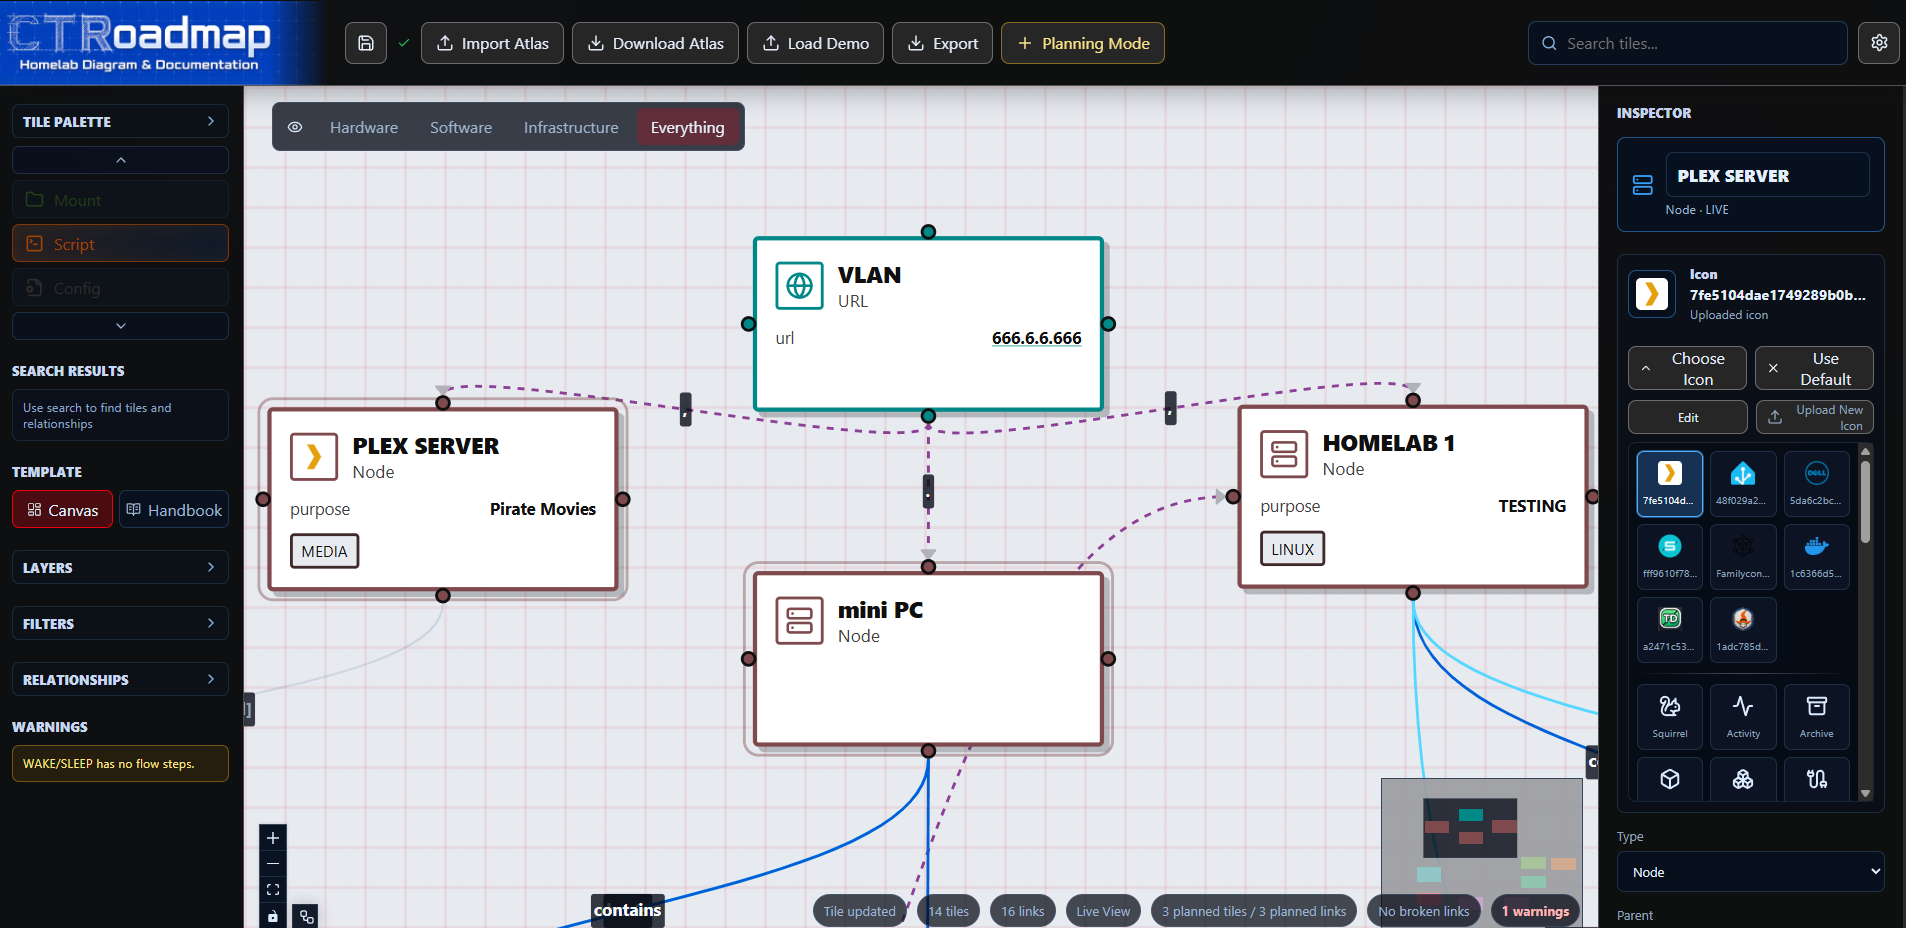
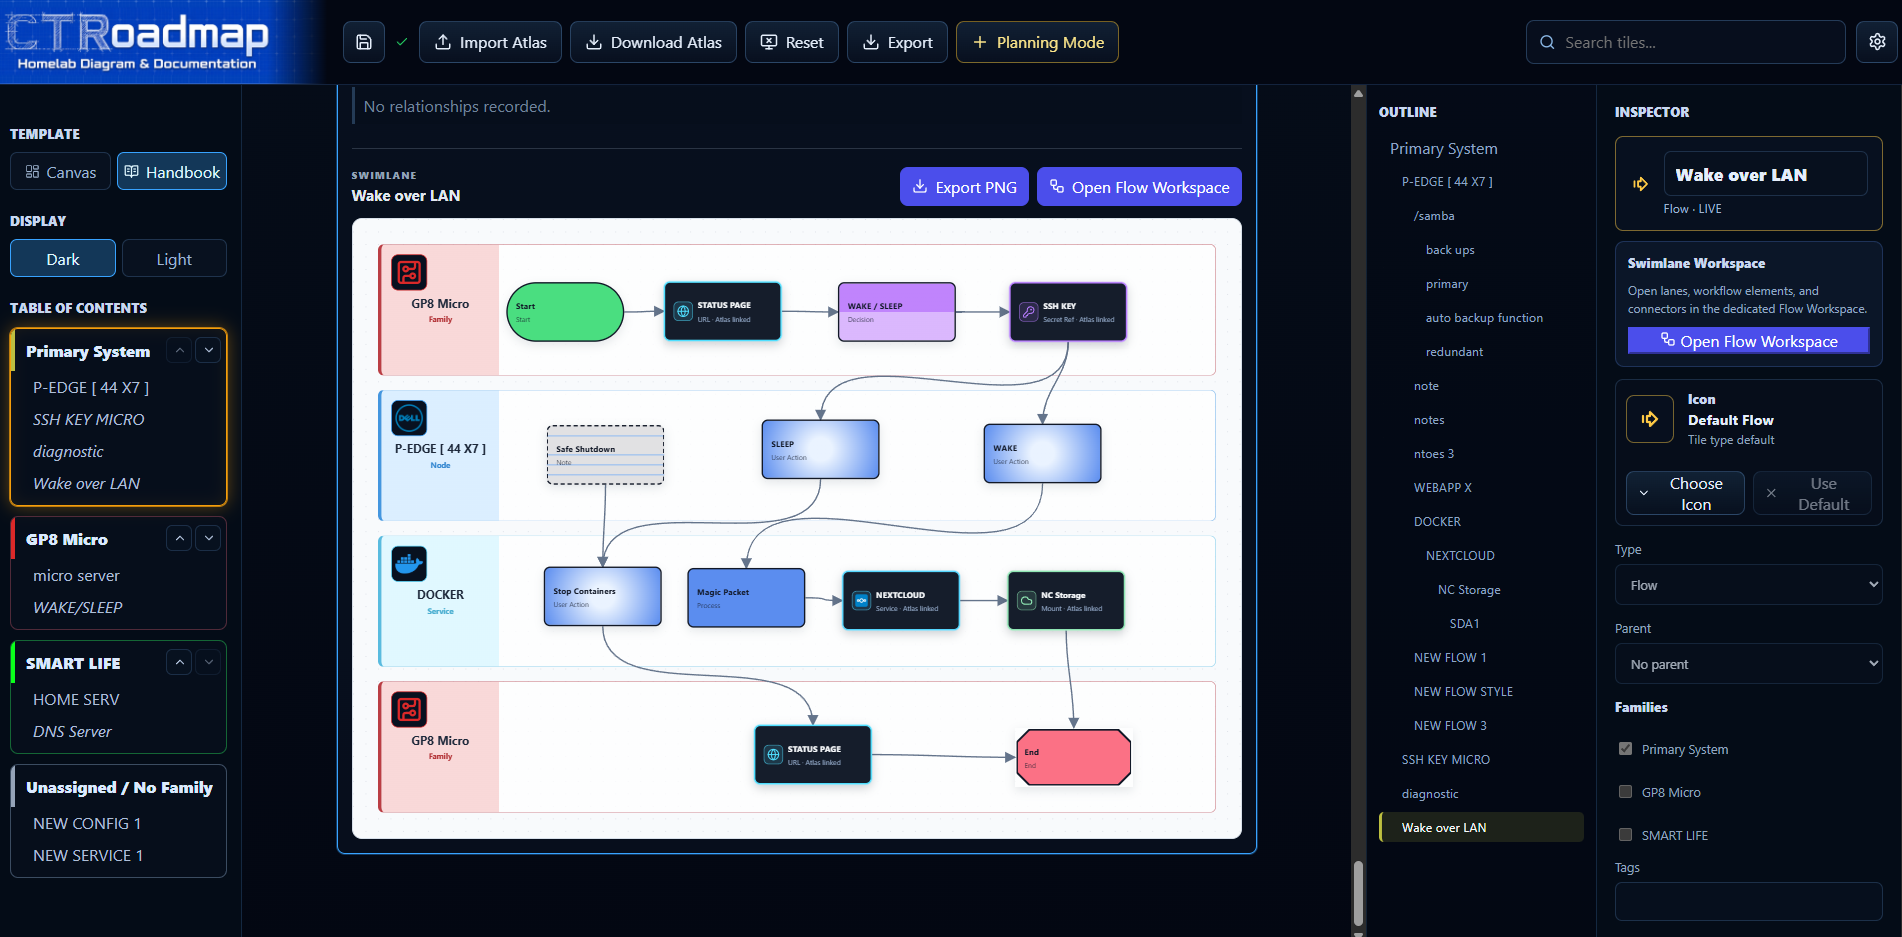
v0.6.0 Push

diff --git a/frontend/src/App.tsx b/frontend/src/App.tsx
@@ -489,7 +489,7 @@ function AtlasEditor() {
   const getCanvasDebugContext = useCallback(
     (extra: Record<string, unknown> = {}) => ({
       active_view_id: activeView?.id ?? null,
-      active_view_title: activeView?.title ?? "None",      visible_tiles: visibleTiles.length,
+      active_view_title: activeView?.title ?? "None", visible_tiles: visibleTiles.length,
       visible_links: visibleLinks.length,
       total_tiles: atlas?.tiles.length ?? 0,
       total_links: atlas?.links.length ?? 0,
@@ -614,7 +614,7 @@ function AtlasEditor() {
       const events = [...debugEvents, ...backendEvents].sort((left, right) => left.timestamp.localeCompare(right.timestamp));
       downloadDebugLog(events, {
         app: "CTRoadmap",
-        active_view: activeView?.title ?? "None",        backend_health: backendHealth,
+        active_view: activeView?.title ?? "None", backend_health: backendHealth,
         frontend_events: debugEvents.length,
         backend_events: backendEvents.length
       });
@@ -811,7 +811,7 @@ function AtlasEditor() {
       },
       size: { width: 360, height: 240 },
       order: ((atlas.families ?? []).reduce((maxOrder, candidate) => Math.max(maxOrder, candidate.order), -1) ?? -1) + 1,
-      color: "#38a3ff",
+      color: "#2a94f2",
       tag: ""
     };
     updateAtlas((current) => ({

diff --git a/backend/tests/test_public_fork.py b/backend/tests/test_public_fork.py
@@ -15,7 +15,8 @@ from backend.app.models import Atlas, empty_atlas
 class PublicForkSchemaTests(unittest.TestCase):
     def test_empty_atlas_has_canvas_only_default_layers(self) -> None:
         atlas = empty_atlas()
-        self.assertEqual([view.id for view in atlas.views], ["hardware", "software", "infrastructure", "everything"])
+        self.assertEqual([view.id for view in atlas.views], [
+                         "hardware", "software", "infrastructure", "everything"])
         for view in atlas.model_dump()["views"]:
             self.assertNotIn("layout_template", view)
 
@@ -48,7 +49,8 @@ class DemoStorageTests(unittest.TestCase):
 
     def test_valid_demo_is_read_without_creating_canonical_atlas(self) -> None:
         self.data_dir.mkdir(parents=True)
-        self.demo_path.write_text(json.dumps(empty_atlas().model_dump(by_alias=True)), encoding="utf-8")
+        self.demo_path.write_text(json.dumps(
+            empty_atlas().model_dump(by_alias=True)), encoding="utf-8")
         demo = storage.read_demo_atlas()
         self.assertEqual(len(demo.views), 4)
         self.assertFalse(self.atlas_path.exists())
@@ -68,7 +70,8 @@ class DemoStorageTests(unittest.TestCase):
 
     def test_invalid_schema_is_rejected(self) -> None:
         self.data_dir.mkdir(parents=True)
-        self.demo_path.write_text('{"views":[{"id":"x","title":"X","layout_template":"handbook"}]}', encoding="utf-8")
+        self.demo_path.write_text(
+            '{"views":[{"id":"x","title":"X","layout_template":"handbook"}]}', encoding="utf-8")
         with self.assertRaises(ValidationError):
             storage.read_demo_atlas()
         self.assertFalse(self.atlas_path.exists())
@@ -76,3 +79,4 @@ class DemoStorageTests(unittest.TestCase):
 
 if __name__ == "__main__":
     unittest.main()
+# v0.6.0

diff --git a/README.md b/README.md
@@ -1,9 +1,33 @@
-# CTRoadmap
-![alt text](readmebanner4.png)
+![alt text](ReadmeBanner6.png)
 
-CTRoadmap is a local-first infrastructure atlas for documenting nodes, services, storage, scripts, configs, URLs, and operational relationships. It is a Docker-served beta application backed by the human-readable `data/atlas.json` file.
+<p align="center">
+  <a href="https://github.com/NoobCity99/CTRoadmap/stargazers">
+    <img src="https://img.shields.io/github/stars/NoobCity99/CTRoadmap?style=for-the-badge&logo=github&color=E53935">
+  </a>
+  <a href="https://github.com/NoobCity99/CTRoadmap/pkgs/container/ctroadmap">
+    <img src="https://img.shields.io/badge/dynamic/json?url=https://ghcr-badge.elias.eu.org/api/NoobCity99/CTRoadmap/ctroadmap&query=downloadCount&label=DOWNLOADS&logo=docker&style=for-the-badge">
+  </a>
+</p>
 
-CTRoadmap is documentation-only software. It does not execute commands, open SSH sessions, issue Docker calls, or run live checks against your infrastructure.
+<p align="center">
+  <img src="https://img.shields.io/badge/Compatible-Synology-green?style=for-the-badge&logo=sega">
+  <img src="https://img.shields.io/badge/🍎%20MOBILE VIEW-READY-8A2BE2?style=for-the-badge&logo=android">
+</p>
+
+CTRoadmap is a local-first infrastructure Diagram & Documentation tool for your **HOMELAB** via nodes, services, storage, scripts, configs, URLs, and operational relationships. It is a Docker-served beta application backed by the human-readable `data/atlas.json` file.
+
+CTRoadmap is documentation-only software. It __does not__ execute commands, open SSH sessions, issue Docker calls, or run live checks against your infrastructure.
+
+<table>
+  <tr>
+    <td><img src="assets\FLOW.png" width="100%" alt="Image 1"></td>
+    <td><img src="assets\DATA.png" width="100%" alt="Image 2"></td>
+  </tr>
+  <tr>
+    <td><img src="assets\PlanMode.png" width="100%" alt="Image 3"></td>
+    <td><img src="assets\Stack.png" width="100%" alt="Image 4"></td>
+  </tr>
+</table>
 
 ## Beta Docker Install
 
@@ -105,6 +129,7 @@ Update Advisory is informational only. CTRoadmap does not auto-update, run Docke
 CTRoadmap stores its persistent state in bind-mounted directories so that replacing or updating the container does not replace your atlas.
 
 - `data/atlas.json` is the canonical atlas containing tiles, relationships, families, stacks, and saved Layers.
+- `data/history/` contains the persistent rolling Undo/Redo manifest and snapshots for up to five prior Atlas changes.
 - `data/assets/icons/` contains icons uploaded through the Icon Library.
 - `data/auth.json` contains local passcode configuration and session state when Local Access Passcode is enabled.
 - `data/update_state.json` stores update-advisory settings and cached advisory state.
@@ -119,16 +144,8 @@ cp -a exports exports.backup
 
 Keep backups outside the installation directory before uninstalling or making destructive host changes.
 
-<table>
-  <tr>
-    <td><img src="assets\FLOW.png" width="100%" alt="Image 1"></td>
-    <td><img src="assets\DATA.png" width="100%" alt="Image 2"></td>
-  </tr>
-  <tr>
-    <td><img src="assets\PlanMode.png" width="100%" alt="Image 3"></td>
-    <td><img src="assets\Stack.png" width="100%" alt="Image 4"></td>
-  </tr>
-</table>
+The toolbar provides persistent Undo and Redo for canonical Atlas edits. History survives browser and container restarts, while `data/atlas.json` remains a normal standalone Atlas that can be copied or imported independently.
+
 
 # FEATURES
 
